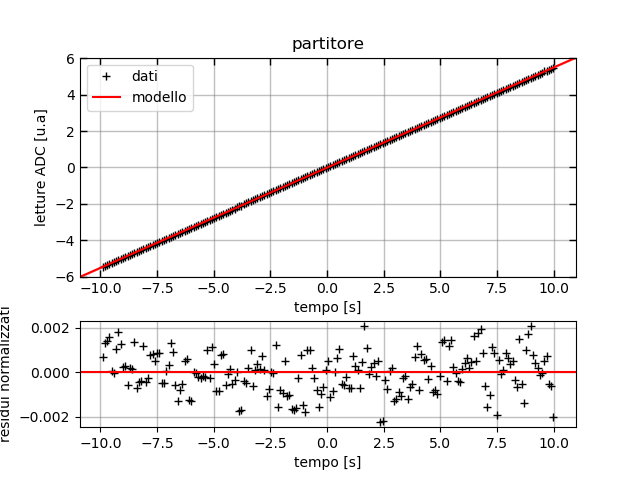
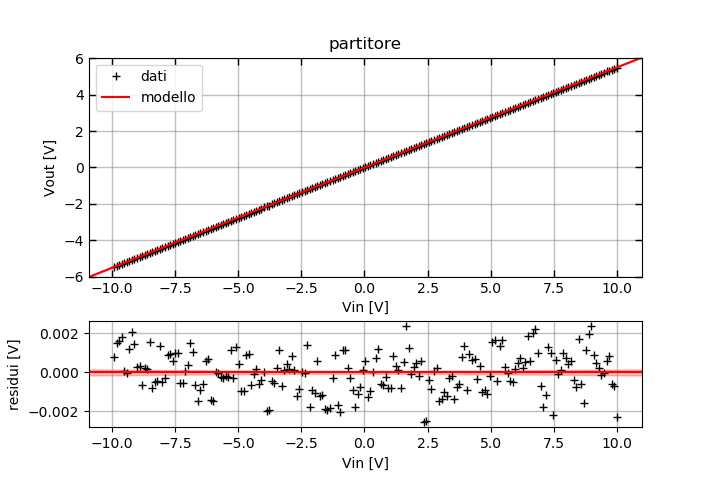
aggiornati grafici

diff --git a/settimana_1/partitori_2/programma.py b/settimana_1/partitori_2/programma.py
@@ -28,9 +28,9 @@ g.fitParams.params = np.array(init)
 g.plotParams.plot_errors = False
 g.plotParams.plot_model = True
 g.plotParams.title = 'partitore'
-g.plotParams.nome_asse_y = 'letture ADC'
+g.plotParams.nome_asse_y = 'Vout'
 g.plotParams.unita_asse_y = '[V]'
-g.plotParams.nome_asse_x = 'tempo'
+g.plotParams.nome_asse_x = 'Vin'
 g.plotParams.unita_asse_x = '[V]'
 g.fitParams.absolute_sigma = False
 g.plotParams.plot_residui = True
